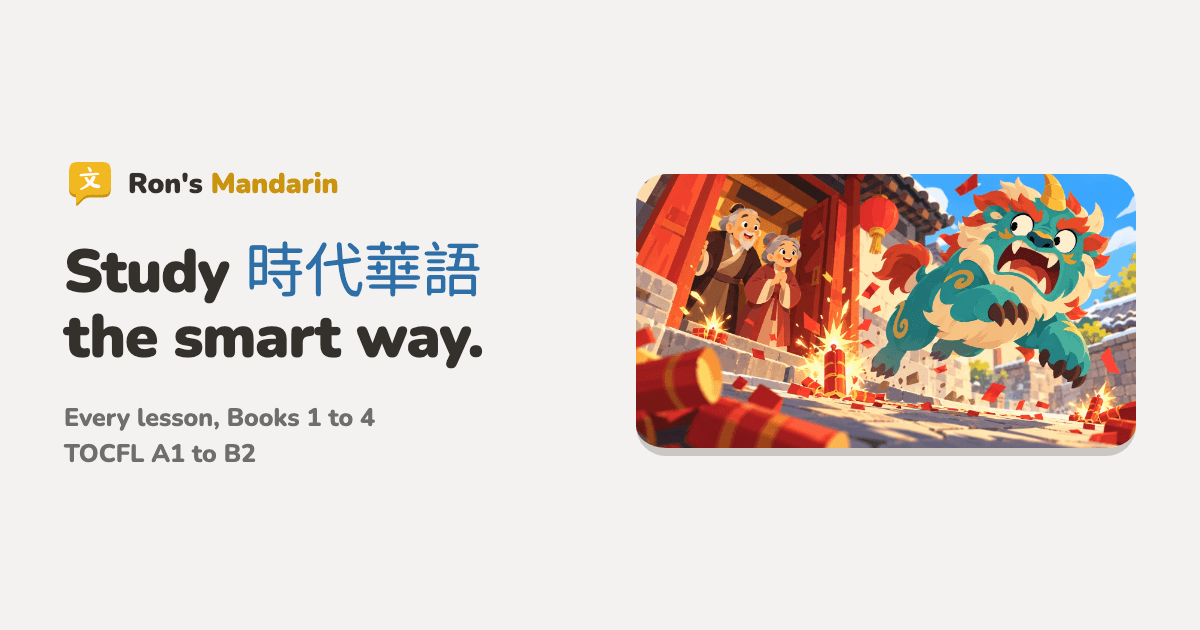
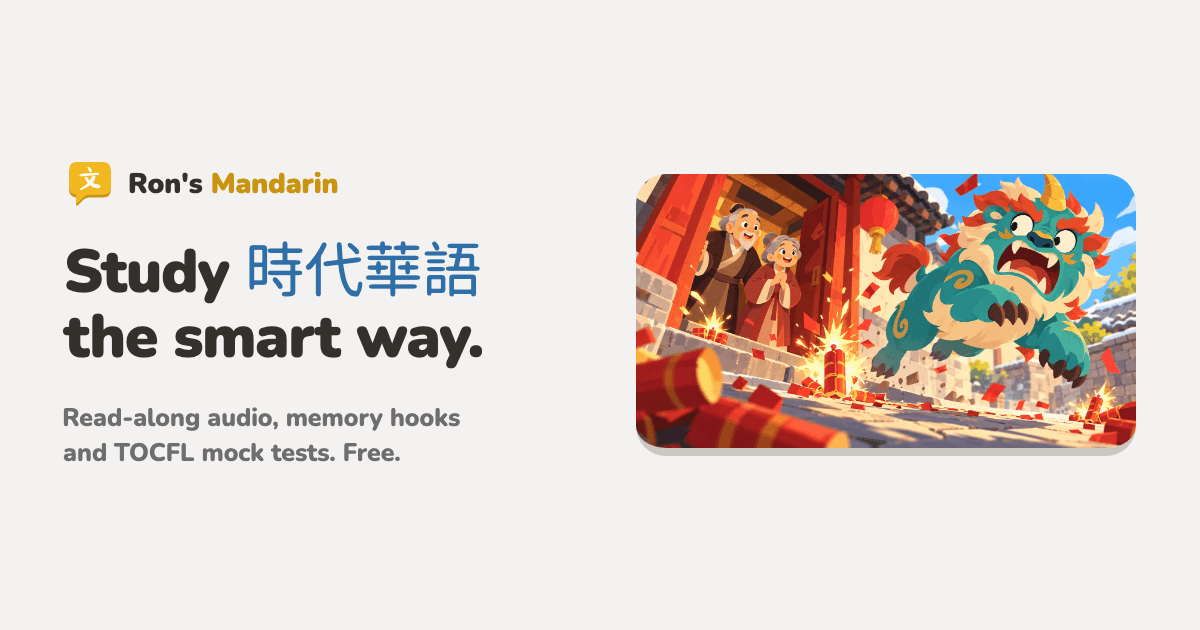
feat(landing): highlight read-along audio, memory hooks and mock tests for the launch
- About: leads with what makes the app different (read-along audio, memory hooks, TOCFL mock tests, FSRS flashcards, Study together); new 中文 summary; "Who made it" updated
- Landing: new subtitle and two FAQ answers; the screenshot row moves right under the sign-in button as "Inside the app", with new real screenshots and a label each
- Link preview (share.png) and meta descriptions list the highlights instead of "Books 1 to 4"
- Sign-up opened on 6 Nov, so the pre-launch wording switch (isSignupOpen) and its test are removed

Changed region(s): [[0.0308, 0.6333, 0.4008, 0.754]]

diff --git a/src/screens/legal/AboutContent.tsx b/src/screens/legal/AboutContent.tsx
@@ -1,53 +1,61 @@
 import { Link } from 'react-router';
 import { LEGAL_ROUTES } from '../../app/routes';
-import { isSignupOpen } from './legalMeta';
 import { ContactLink, LegalList, LegalParagraph, LegalSection, LegalSummary, legalLinkClass } from './LegalBlocks';
 
 const SUMMARY = [
-  'Ron\'s Mandarin 是配合《時代華語》課本使用的學習 App，由學習中文的 Ron 個人開發。',
-  '提供間隔重複字卡、字形拆解與記憶法、寫字、聽力、閱讀與語法練習。',
-  '使用正體字與台灣發音，程度對應 TOCFL（華語文能力測驗）。',
-  '目前開放樹德科技大學學生測試第一至三冊，免費使用。',
+  'Ron\'s Mandarin 是配合《時代華語》課本使用的免費學習 App，由學習中文的 Ron 個人開發。',
+  '課文對話邊聽邊讀：每個字隨錄音亮起，點任何詞就有拼音和意思。',
+  '字形拆解加上記憶法，幫你記住每個字的意思。',
+  '課後有 TOCFL 模擬測驗，答錯的字會回到你的複習卡片。',
+  '正體字、台灣發音。年滿 18 歲、有 Google 帳號就能加入，第一至三冊免費使用。',
 ];
-const LAUNCHED_SUMMARY_LAST = '開放給所有年滿 18 歲、擁有 Google 帳號的學習者，第一至三冊免費使用。';
 
 export function AboutContent() {
   return (
     <>
-      <LegalSummary points={isSignupOpen() ? [...SUMMARY.slice(0, -1), LAUNCHED_SUMMARY_LAST] : SUMMARY} />
+      <LegalSummary points={SUMMARY} />
 
       <LegalSection title="What it is">
         <LegalParagraph>
-          Ron&apos;s Mandarin is a study companion for the <strong>時代華語 Modern Chinese</strong> textbook series.
-          It turns each lesson into practice you can do anywhere: flashcards on a spaced-repetition schedule,
-          character breakdowns and memory hooks, handwriting, listening, reading and grammar exercises.
+          Ron&apos;s Mandarin is a free study app for the <strong>時代華語 Modern Chinese</strong> textbooks. It
+          turns each lesson into practice you can do on your phone: listen and read, learn the characters, review
+          the words, then test yourself the way TOCFL will.
         </LegalParagraph>
+      </LegalSection>
+
+      <LegalSection title="What makes it different">
+        <LegalList
+          items={[
+            <><strong>Read along with the audio.</strong> Every dialogue and reading in Books 1 to 3 plays its recording while each character lights up as it is spoken. Tap any word for its pinyin and meaning.</>,
+            <><strong>Memory hooks.</strong> Each character is split into its parts, with a short story that ties the parts to the meaning: 她 is a 女 (woman) waving a 也 flag, so &ldquo;she&rdquo;.</>,
+            <><strong>A TOCFL mock test after the lesson.</strong> Listening and reading, built like the real exam. A Fix round goes through every miss, the words you missed come back in your reviews, and retakes bring back earlier lessons you got wrong. Ready for Book 1 and the first lessons of Book 3, with more on the way.</>,
+            <><strong>Flashcards that know when you&apos;ll forget.</strong> Every lesson word, scheduled with FSRS so each review comes just before you would forget it.</>,
+            <><strong>Study together.</strong> See who else is studying, race each other in quick quizzes and chat. You can hide yourself any time in Settings.</>,
+          ]}
+        />
+      </LegalSection>
+
+      <LegalSection title="Also inside">
+        <LegalList
+          items={[
+            'Writing practice with stroke order for every character.',
+            'Tone practice, and quizzes that always test the meaning.',
+            'Grammar explanations with exercises, from fill-in to ordering and listening.',
+            'A dictionary that knows your book, and your own cards in folders, synced across devices.',
+            'TOCFL levels on every word, and a readiness view of how close you are to each band.',
+          ]}
+        />
       </LegalSection>
 
       <LegalSection title="Use it with your book">
         <LegalParagraph>
-          The app is made to be used with your own copy of the book, so please buy it. It follows the book&apos;s lessons and adds the
-          things paper cannot do: audio on every word, reviews timed to when you are about to forget, and
-          progress that syncs between your devices. Keep using the book in class; the app is for practice.
+          The app is made to be used with your own copy of the book, so please buy it. It follows the book&apos;s
+          lessons and adds the things paper cannot do. Keep using the book in class; the app is for practice.
         </LegalParagraph>
         <LegalParagraph>
           Ron&apos;s Mandarin is an independent project. It is not made, approved or endorsed by Tamkang
           University&apos;s Chinese Language Center or by Cheng Chung Book Co.
         </LegalParagraph>
-      </LegalSection>
-
-      <LegalSection title="What's inside">
-        <LegalList
-          items={[
-            <><strong>Flashcards</strong> for every lesson word, scheduled with FSRS so reviews come just before you would forget.</>,
-            <><strong>Character breakdowns</strong> that show the parts of each character, which part gives the sound, and a memory hook.</>,
-            <><strong>Writing practice</strong> with stroke order for every character.</>,
-            <><strong>Listening and reading</strong> with the book&apos;s dialogues, audio on every word, and tap-to-look-up.</>,
-            <><strong>Grammar</strong> explanations with exercises in several formats, from fill-in to ordering and listening.</>,
-            <><strong>Dictionary and your own cards</strong>, saved into folders and synced across devices.</>,
-            <><strong>TOCFL levels</strong> on every word, and a readiness view of how close you are to each band.</>,
-          ]}
-        />
       </LegalSection>
 
       <LegalSection title="The Chinese it teaches">
@@ -62,10 +70,8 @@ export function AboutContent() {
 
       <LegalSection title="Beta">
         <LegalParagraph>
-          {isSignupOpen()
-            ? 'The beta is open to anyone 18 or older with a Google account.'
-            : 'The beta is open to Shu-Te University students who sign in with their school Google account.'} Books 1 to 3 are available now; Book 4 will open when it is ready. Things may change or break, and your
-          feedback decides what gets built next.
+          The beta is open to anyone 18 or older with a Google account. Books 1 to 3 are open now; Book 4 will open
+          when it is ready. Things may change or break, and your feedback decides what gets built next.
         </LegalParagraph>
       </LegalSection>
 
@@ -79,8 +85,9 @@ export function AboutContent() {
 
       <LegalSection title="Who made it">
         <LegalParagraph>
-          I&apos;m Ron, a Mandarin learner. I built this because I wanted more practice from my book than the
-          book alone could give. The app is free; tips are welcome but never required.
+          I&apos;m Ron, a student learning Mandarin in Taiwan from these same books. I built this because I wanted
+          more practice from my book than the book alone could give. The app is free; tips are welcome but never
+          required.
         </LegalParagraph>
       </LegalSection>
 

diff --git a/src/screens/landing/LandingPage.tsx b/src/screens/landing/LandingPage.tsx
@@ -50,7 +50,7 @@ export function LandingPage() {
                 Practice <span className="whitespace-nowrap font-chinese text-brand-primary-text">時代華語</span> one lesson at a time
               </h1>
               <p className="mt-8 text-lg font-bold leading-relaxed text-ui-muted-strong lg:mt-10 text-balance lg:text-xl">
-                Flashcards, quizzes and grammar for every lesson of the Taiwan textbook.
+                Read-along audio, memory hooks, flashcards and TOCFL mock tests for the Taiwan textbook.
               </p>
               <GoogleSignInButton onClick={start} busy={isBusy} className="mt-10 lg:mt-14" />
               {error && <SignInMessageNote message={error} className="mt-3" />}
@@ -58,7 +58,19 @@ export function LandingPage() {
             </div>
           </section>
 
-          <section aria-label="Every lesson is its own story" className="mt-10 lg:mt-6">
+          <section className="mt-14 lg:mt-24">
+            <h2 className={SECTION_TITLE}>Inside the app</h2>
+            <div className="-mx-5 mt-6 flex snap-x items-start gap-3.5 overflow-x-auto px-5 pb-2 [scrollbar-width:none] lg:mx-0 lg:mt-12 lg:justify-center lg:gap-8 lg:overflow-visible lg:px-0">
+              {PHONE_SHOTS.map(({ src, alt, label }, i) => (
+                <figure key={src} className={i % 2 ? 'w-52 shrink-0 snap-center lg:mt-12 lg:w-64' : 'w-52 shrink-0 snap-center lg:w-64'}>
+                  <PhoneShot src={src} alt={alt} />
+                  <figcaption className="mt-3 text-center text-base font-black text-ui-ink-strong lg:text-lg">{label}</figcaption>
+                </figure>
+              ))}
+            </div>
+          </section>
+
+          <section aria-label="Every lesson is its own story" className="mt-18 lg:mt-36">
             <div className="relative">
               <img src={nianArtSmall} srcSet={`${nianArtSmall} 960w, ${nianArt} 1672w`} sizes="(min-width: 1024px) 1240px, 100vw" fetchPriority="high" width={1672} height={941} alt="The Nian monster flees a red doorway as firecrackers burst" className="aspect-video w-full rounded-feature object-cover lg:rounded-modal" />
               <NianLessonPhone className="absolute -bottom-18 -right-10 hidden w-60 lg:block" />
@@ -72,15 +84,6 @@ export function LandingPage() {
           <section className="mt-18 lg:mt-36">
             <h2 className={SECTION_TITLE}>Try it here</h2>
             <TryIt />
-          </section>
-
-          <section className="mt-18 lg:mt-36">
-            <h2 className={SECTION_TITLE}>Made for your phone</h2>
-            <div className="-mx-5 mt-6 flex snap-x items-start gap-3.5 overflow-x-auto px-5 pb-2 [scrollbar-width:none] lg:mx-0 lg:mt-12 lg:justify-center lg:gap-8 lg:overflow-visible lg:px-0">
-              {PHONE_SHOTS.map((shot, i) => (
-                <PhoneShot key={shot.src} {...shot} className={i % 2 ? 'w-52 shrink-0 snap-center lg:mt-12 lg:w-64' : 'w-52 shrink-0 snap-center lg:w-64'} />
-              ))}
-            </div>
           </section>
 
           <section className="mt-18 lg:mt-36">

diff --git a/src/screens/landing/landingContent.ts b/src/screens/landing/landingContent.ts
@@ -2,13 +2,11 @@
  * Copy and sample content for the signed-out landing page. Grammar rows are the book's own
  * pattern rows (Book 1, Lessons 1–2); hooks and parts come from public/data/memory-hooks.
  */
-import { isSignupOpen } from '../legal/legalMeta';
-
 export const LANDING_META = {
   title: "Ron's Mandarin · 時代華語 Modern Chinese Flashcards",
-  description: 'Free traditional Chinese flashcards, quizzes, stories and grammar for the Taiwan textbook 時代華語 Modern Chinese. TOCFL A1 to B2, one lesson at a time.',
+  description: 'Free traditional Chinese flashcards, read-along audio, memory hooks and TOCFL mock tests for the Taiwan textbook 時代華語 Modern Chinese, one lesson at a time.',
   /** Shorter text for link-preview cards, which cut off around 125 characters. */
-  socialDescription: 'Free flashcards and learning material for the 時代華語 Modern Chinese textbook, TOCFL A1 to B2.',
+  socialDescription: 'Read-along audio, memory hooks, flashcards and TOCFL mock tests for 時代華語 Modern Chinese. Free.',
 };
 
 export type DemoId = 'cards' | 'quiz' | 'tones' | 'dictionary' | 'grammar' | 'party' | 'characters';
@@ -54,8 +52,10 @@ export const SAMPLE_SENTENCE: (readonly [word: string, pinyin: string, meaning: 
 
 export const FAQ: { q: string; a: string }[] = [
   { q: 'Is it free?', a: 'Yes. No ads, no paid plan.' },
-  ...(isSignupOpen() ? [{ q: 'Who can join?', a: 'Anyone 18 or older with a Google account.' }] : []),
+  { q: 'Who can join?', a: 'Anyone 18 or older with a Google account.' },
   { q: 'Do I need the book?', a: 'It’s made to be used with your own copy of 時代華語 Modern Chinese, so please buy it. The app adds audio, flashcards and practice around each lesson.' },
+  { q: 'Is there a test after each lesson?', a: 'Yes, a TOCFL-style mock test with listening and reading. Book 1 and the first lessons of Book 3 have one now, with more on the way. Words you miss go back into your reviews.' },
+  { q: 'Can I study with other people?', a: 'Yes. Study together shows who else is studying and lets you race each other in quick quizzes.' },
   { q: 'Does it have Chinese flashcards?', a: 'Yes. Traditional Chinese flashcards with Taiwan audio for every lesson, plus quizzes, tones and grammar.' },
   { q: 'Which books does it cover?', a: '時代華語 Modern Chinese Books 1 to 4, from TOCFL A1 to B2. Books 1 to 3 are open in the beta.' },
   { q: 'Can I use it for TOCFL?', a: 'Yes. The books run from TOCFL A1 to B2, so each lesson builds the vocabulary and grammar those levels test.' },

diff --git a/src/screens/landing/components/PhoneShot.tsx b/src/screens/landing/components/PhoneShot.tsx
@@ -1,13 +1,13 @@
 import { cn } from '../../../utils/cn';
 
-const lessonShot = new URL('../../../assets/images/landing/phone-lesson.webp', import.meta.url).href;
 const nianCompositeShot = new URL('../../../assets/images/landing/phone-nian-composite.webp', import.meta.url).href;
 
+/** Real app screenshots (390×844 phone, light), one per headline feature. */
 export const PHONE_SHOTS = [
-  { src: lessonShot, alt: 'Book 2 Lesson 8 window with Vocabulary, Grammar and Reading' },
-  { src: new URL('../../../assets/images/landing/phone-card.webp', import.meta.url).href, alt: 'Flashcard for 貼紙' },
-  { src: new URL('../../../assets/images/landing/phone-examples.webp', import.meta.url).href, alt: 'Interactive grammar pattern table for 叫、姓、是' },
-  { src: new URL('../../../assets/images/landing/phone-write.webp', import.meta.url).href, alt: 'Stroke order for 貼' },
+  { src: new URL('../../../assets/images/landing/phone-read.webp', import.meta.url).href, label: 'Read along with the audio', alt: 'Book 1 Lesson 1 dialogue playing, with 同學 lit up as it is spoken' },
+  { src: new URL('../../../assets/images/landing/phone-hook.webp', import.meta.url).href, label: 'Memory hooks', alt: 'Character breakdown of 學 with its memory hook' },
+  { src: new URL('../../../assets/images/landing/phone-test.webp', import.meta.url).href, label: 'TOCFL mock tests', alt: 'Lesson 1 mock test: TOCFL Band A, 20 questions' },
+  { src: new URL('../../../assets/images/landing/phone-card.webp', import.meta.url).href, label: 'Flashcards', alt: 'Flashcard for 貼紙' },
 ];
 
 const FRAME = 'block aspect-[390/844] overflow-hidden rounded-modal border-[6px] border-ui-ink-strong bg-ui-ink-strong';

diff --git a/index.html b/index.html
@@ -34,7 +34,7 @@
     <meta name="title" content="Ron's Mandarin · Modern Chinese 時代華語" />
     <meta
       name="description"
-      content="Free traditional Chinese flashcards, quizzes, stories and grammar for the Taiwan textbook 時代華語 Modern Chinese. TOCFL A1 to B2, one lesson at a time."
+      content="Free traditional Chinese flashcards, read-along audio, memory hooks and TOCFL mock tests for the Taiwan textbook 時代華語 Modern Chinese, one lesson at a time."
     />
     <meta name="keywords" content="Modern Chinese, 時代華語, Modern Chinese textbook, TOCFL, Traditional Chinese, Taiwan Mandarin, study companion" />
     <meta name="google-site-verification" content="jOIXt1IoevtNritudkxEp_3pIlGXLIb71P94043-xbk" />
@@ -46,7 +46,7 @@
     <meta property="og:title" content="Ron's Mandarin · Modern Chinese 時代華語" />
     <meta
       property="og:description"
-      content="Free flashcards and learning material for the 時代華語 Modern Chinese textbook, TOCFL A1 to B2."
+      content="Read-along audio, memory hooks, flashcards and TOCFL mock tests for 時代華語 Modern Chinese. Free."
     />
 
     <!-- Twitter -->
@@ -54,7 +54,7 @@
     <meta name="twitter:title" content="Ron's Mandarin · Modern Chinese 時代華語" />
     <meta
       name="twitter:description"
-      content="Free flashcards and learning material for the 時代華語 Modern Chinese textbook, TOCFL A1 to B2."
+      content="Read-along audio, memory hooks, flashcards and TOCFL mock tests for 時代華語 Modern Chinese. Free."
     />
 
     <link rel="canonical" href="https://ronsmandarin.com/" />

diff --git a/tests/unit/legalMeta.test.ts b/tests/unit/legalMeta.test.ts
@@ -1,6 +1,6 @@
 import test from 'node:test';
 import assert from 'node:assert/strict';
-import { formatLegalDate, isLegalUpdateCurrent, isSignupOpen, legalEffectivePhrase } from '../../src/screens/legal/legalMeta';
+import { formatLegalDate, isLegalUpdateCurrent, legalEffectivePhrase } from '../../src/screens/legal/legalMeta';
 import { showsGooglePhoto } from '../../src/store/slices/profileSlice';
 
 const day = 24 * 60 * 60 * 1000;
@@ -28,12 +28,6 @@ test('legal notice says "takes" before the date and "took" from it', () => {
 
 test('legal dates format as the written calendar day', () => {
   assert.equal(formatLegalDate('2026-10-23'), 'October 23, 2026');
-});
-
-test('sign-up wording switches at midnight Taiwan on 6 November', () => {
-  const open = Date.parse('2026-11-06T00:00:00+08:00');
-  assert.equal(isSignupOpen(open - 1), false);
-  assert.equal(isSignupOpen(open), true);
 });
 
 test('Google photo: older accounts keep it, newer ones start with initials, a choice wins', () => {

diff --git a/src/screens/legal/legalMeta.ts b/src/screens/legal/legalMeta.ts
@@ -1,5 +1,3 @@
-import { SIGNUP_OPEN_AT } from '../../../shared/publicLaunch';
-
 /** Shared facts the legal pages state; change them here, not in the prose. */
 export const LEGAL_CONTACT_EMAIL = 'rongicalol@gmail.com';
 
@@ -29,11 +27,6 @@ export const LEGAL_UPDATE: LegalUpdate | null = {
 
 /** Shown beside the effective date: accounts made since sign-up opened are bound from sign-up. */
 export const LEGAL_NEW_ACCOUNTS_NOTE = 'new accounts from sign-up';
-
-/** Anyone 18+ can sign up from that day (owner sets private.signup_settings.public_open). */
-export function isSignupOpen(now = Date.now()): boolean {
-  return now >= SIGNUP_OPEN_AT;
-}
 
 const NOTICE_AFTER_EFFECTIVE_MS = 30 * 24 * 60 * 60 * 1000;
 
